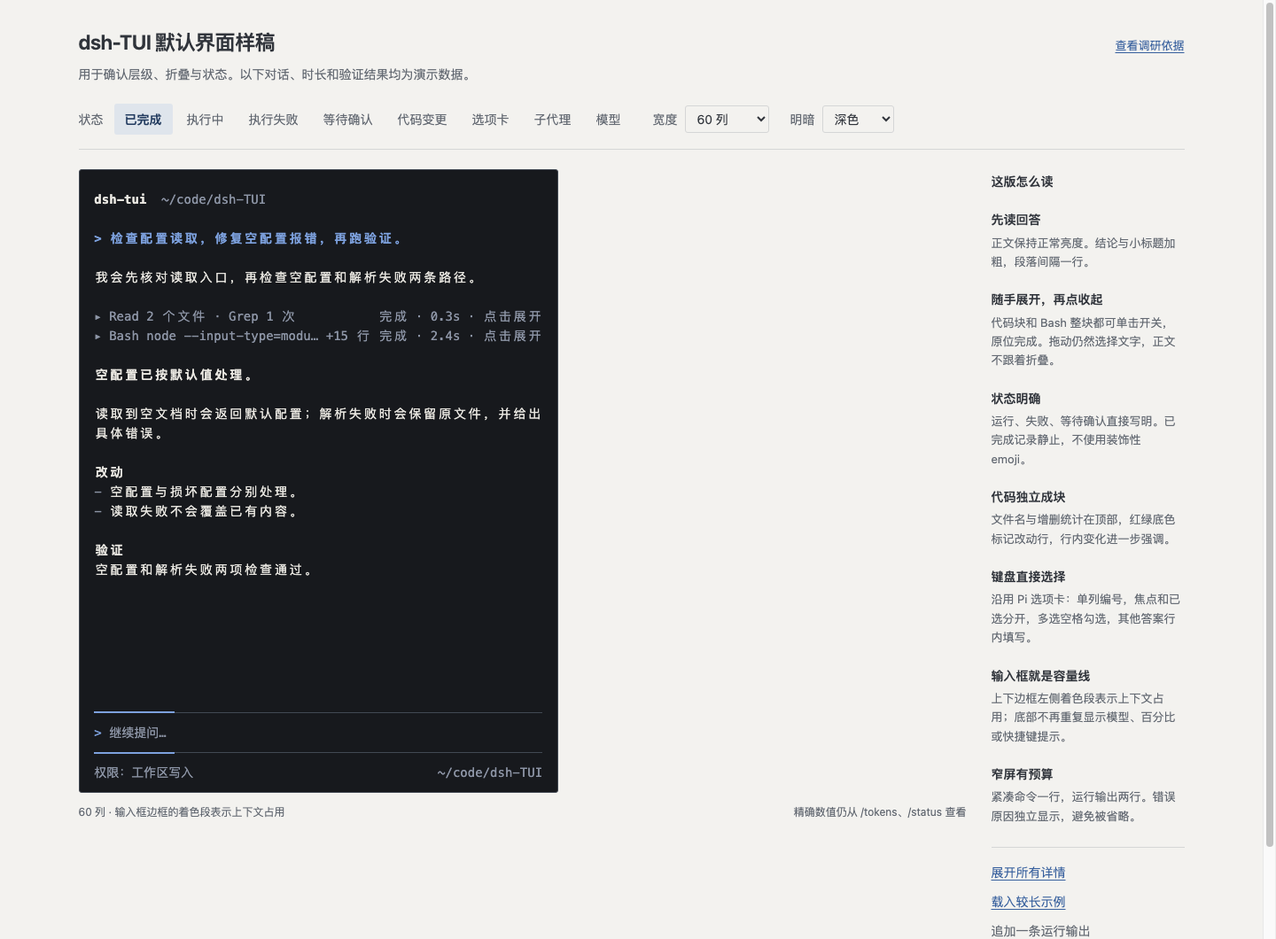
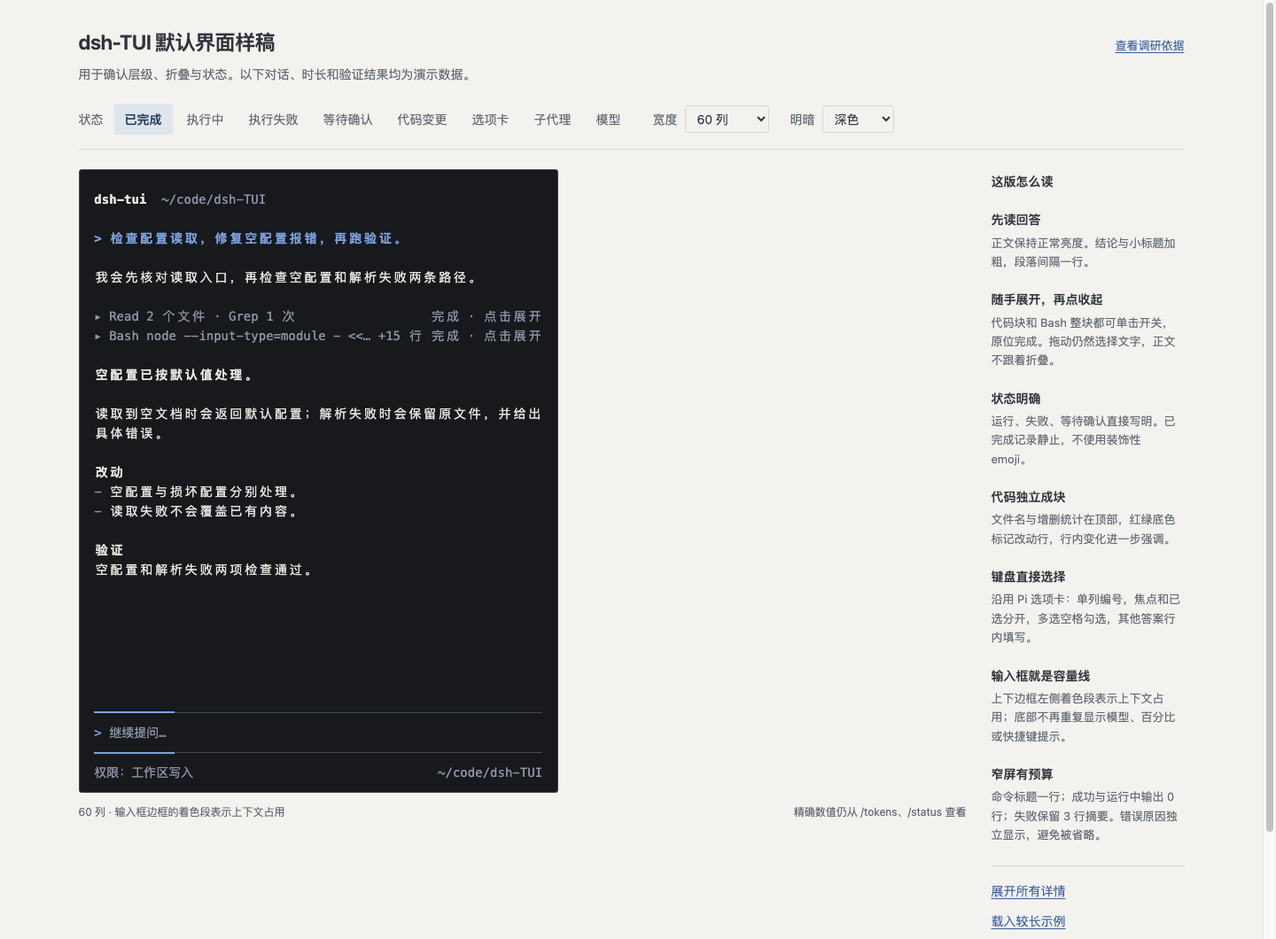
docs: 按轻审修订过程显示 spec 与交互稿
- 修正 Generic 折叠 3 行、已有提示、Bash 基线等事实错误
- 补组内转失败断组、验收缺口、流式思考机制与章节顺序
- 交互稿去掉完成态用时、补组展开结果与失败 3 行输出
- 补 ADR 代价与 Claude Code 归档依据

Changed region(s): [[0.7812, 0.8406, 0.9375, 1.0], [0.25, 0.3113, 0.375, 0.3736]]

diff --git a/docs/design/2026-10-17-dsh-tui-ux-research/preview/index.html b/docs/design/2026-10-17-dsh-tui-ux-research/preview/index.html
@@ -77,6 +77,8 @@
     .live-line { white-space:nowrap; overflow:hidden; text-overflow:ellipsis; }
     .thinking-live { margin:0 0 var(--line); color:var(--muted); }
     .thinking-body { padding-left:2ch; }
+    .group-result { padding-left:2ch; color:var(--muted); }
+    .failure-tail { margin-left:2ch; color:var(--muted); }
     .error-line { margin-left:2ch; color:var(--error); }
     .answer { margin-top:var(--line); }
     .answer p { margin:0 0 var(--line); }
@@ -349,7 +351,7 @@
         <dt>代码独立成块</dt><dd>文件名与增删统计在顶部，红绿底色标记改动行，行内变化进一步强调。</dd>
         <dt>键盘直接选择</dt><dd>沿用 Pi 选项卡：单列编号，焦点和已选分开，多选空格勾选，其他答案行内填写。</dd>
         <dt>输入框就是容量线</dt><dd>上下边框左侧着色段表示上下文占用；底部不再重复显示模型、百分比或快捷键提示。</dd>
-        <dt>窄屏有预算</dt><dd>紧凑命令一行，运行输出两行。错误原因独立显示，避免被省略。</dd>
+        <dt>窄屏有预算</dt><dd>命令标题一行；成功与运行中输出 0 行；失败保留 3 行摘要。错误原因独立显示，避免被省略。</dd>
       </dl>
       <div class="review-actions">
         <button id="toggle-all" class="plain-button">展开所有详情</button>
@@ -572,9 +574,18 @@
       : logs.join('\n')
     const commandBody = `<div class="detail-title">${cells('完整脚本 · 11 行')}</div><pre>${cells(command)}</pre><button class="copy-command" data-copy>${cells('复制脚本')}</button><div class="body-section"><div class="detail-title">${cells('输出')}</div><pre>${cells(waiting ? '等待允许，尚未执行。' : running ? logs.slice(0, 2 + state.outputIndex).join('\n') : output)}</pre></div>`
     // 过程块默认不露出结果：隐藏行数 = 未显示的命令行 + 未显示的输出行。
+    // 失败卡仍露出 3 行输出；其余状态 0 行。
     const outputRowCount = waiting ? 0 : running ? logs.slice(0, 2 + state.outputIndex).length : failed ? 3 : logs.length
-    const bashHidden = command.split('\n').length - 1 + outputRowCount
-    const groupBody = `<div class="detail-title">${cells('读取与搜索 · 3 次')}</div><div>Read src/tuiSettingsFile.ts</div><div>Read src/config-reader.ts</div><div>Grep “values ?? {}” · 2 个文件</div>`
+    const shownFailureRows = failed && !state.expanded.has('bash') ? Math.min(3, outputRowCount) : 0
+    const bashHidden = command.split('\n').length - 1 + outputRowCount - shownFailureRows
+    const groupBody = `<div class="detail-title">${cells('读取与搜索 · 3 次')}</div>
+      <div>Read src/tuiSettingsFile.ts</div><pre class="group-result">${cells('export function readValues(raw) { … }')}</pre>
+      <div>Read src/config-reader.ts</div><pre class="group-result">${cells('export function readValues(raw) { … }')}</pre>
+      <div>Grep “values ?? {}” · 2 个文件</div><pre class="group-result">${cells('src/tuiSettingsFile.ts:42: return doc?.values ?? {}')}</pre>`
+    const failureBlock = failed ? `<div class="failure-tail" data-key="failure">
+      ${!state.expanded.has('bash') ? `<pre>${cells(output.split('\n').slice(0, 3).join('\n'))}</pre>` : ''}
+      <div class="error-line">${cells('退出码 1')}</div>
+    </div>` : ''
     // 思考只在流式时显示正文；完成后整行消失，不保留可点入口。
     const liveThinking = running ? `<div class="thinking-live" data-key="thinking-live">
       <div>${cells('▸ 思考 进行中… · 3s')}</div>
@@ -584,11 +595,10 @@
     transcript.innerHTML = state.scene==='subagents' ? history() + subagentPreview.mainTranscriptHtml() : history() + (state.scene==='questions' ? `<section class="turn"><div class="term-row user">${cells('> 请先确认验证方式和需要覆盖的终端场景。')}</div><p>${cells('我会按你选择的范围准备验证。')}</p></section>` : `<section class="turn" data-key="current-turn">
       <div class="term-row user" data-key="prompt">${cells('> 检查配置读取，修复空配置报错，再跑验证。')}</div>
       <p class="narration" data-key="narration">${cells('我会先核对读取入口，再检查空配置和解析失败两条路径。')}</p>
-      ${state.scene === 'edit' ? `<div class="process">${detail('group', 'Read', 'src/config-reader.ts', '完成 · 0.1s', readBody, {hint:true})}</div>${editBlock()}` : `<section class="process" aria-label="过程记录">
+      ${state.scene === 'edit' ? `<div class="process">${detail('group', 'Read', 'src/config-reader.ts', '完成', readBody, {hint:true})}</div>${editBlock()}` : `<section class="process" aria-label="过程记录">
         ${liveThinking}
-        ${detail('group', 'Read', '2 个文件 · Grep 1 次', running ? '进行中…' : '完成 · 0.3s', groupBody, {hint:true})}
-        <div class="tool-block" data-card="bash">${detail('bash', 'Bash', command.split('\n')[0], waiting ? '等待确认' : running ? '运行中 · 8s' : failed ? '失败 · 1.2s' : '完成 · 2.4s', commandBody, {error:failed,hiddenLines:bashHidden,hint:true})}
-        ${failed ? `<div class="error-line" data-key="failure">${cells('失败：测试数据文件不存在（退出码 1）。')}</div>` : ''}</div>
+        ${detail('group', 'Read', '2 个文件 · Grep 1 次', running ? '等待结果' : '完成', groupBody, {hint:true})}
+        <div class="tool-block" data-card="bash">${detail('bash', 'Bash', command.split('\n')[0], waiting ? '等待确认' : running ? '等待结果' : failed ? '失败' : '完成', commandBody, {error:failed,hiddenLines:bashHidden,hint:true})}${failureBlock}</div>
       </section>`}
       ${answer()}
     </section>`)

diff --git a/docs/design/2026-10-17-dsh-tui-ux-research/preview/verify-preview.py b/docs/design/2026-10-17-dsh-tui-ux-research/preview/verify-preview.py
@@ -130,6 +130,8 @@ with tempfile.TemporaryDirectory(prefix='dsh-ui-browser-') as browser_dir:
             check('clicking Bash script body collapses the whole card', devtools.js('!document.querySelector("[data-detail=bash]").open'))
             devtools.click('[data-detail="group"] summary')
             check('clicking a grouped process row expands its calls', devtools.js('document.querySelector("[data-detail=group]").open'))
+            check('group expansion shows every call result', devtools.js('document.querySelector("[data-detail=group] .detail").textContent.includes("export function readValues") && document.querySelector("[data-detail=group] .detail").textContent.includes("src/tuiSettingsFile.ts:42")'))
+            check('group row has no fabricated duration', devtools.js('!/\\d+(\\.\\d+)?s/.test(document.querySelector("[data-detail=group] .summary-meta").textContent)'))
             devtools.click('[data-detail="group"] summary')
             check('clicking the grouped row again collapses it', devtools.js('!document.querySelector("[data-detail=group]").open'))
             devtools.click('[data-detail="bash"] summary')
@@ -173,6 +175,7 @@ with tempfile.TemporaryDirectory(prefix='dsh-ui-browser-') as browser_dir:
 
             devtools.click('[data-scene="failed"]')
             check('failure visible with details collapsed', devtools.js('document.querySelectorAll("details[open]").length===0 && document.querySelector("[data-key=failure]").textContent.includes("退出码 1")'))
+            check('failure keeps three output rows plus exit status', devtools.js('document.querySelector(".failure-tail pre").textContent.split("\\n").length===3 && document.querySelector(".failure-tail .error-line").textContent.includes("退出码 1")'))
             devtools.capture('failed-100-dark.png')
             devtools.click('[data-scene="approval"]')
             check('approval includes full command before any decision', devtools.js('document.querySelector(".approval-command").textContent.split("\\n").length===11'))
@@ -181,6 +184,9 @@ with tempfile.TemporaryDirectory(prefix='dsh-ui-browser-') as browser_dir:
             check('refusal is explicit and does not run a command', devtools.js('document.querySelector(".approval-result").textContent.includes("命令未执行")'))
 
             devtools.click('[data-scene="done"]')
+            check('completed thinking row is gone', devtools.js('!document.querySelector("[data-detail=thinking]") && !document.querySelector(".thinking-live")'))
+            check('done tool rows show no fabricated duration', devtools.js('!/\\d+(\\.\\d+)?s/.test(document.querySelector("[data-detail=bash] .summary-meta").textContent)'))
+            check('side copy matches the new output budget', devtools.js('document.body.textContent.includes("成功与运行中输出 0 行")'))
             devtools.capture('completed-100-dark.png')
             devtools.js('document.querySelector("#width").value="60";document.querySelector("#width").dispatchEvent(new Event("change"))')
             devtools.settle()

diff --git a/docs/specs/2026-10-28-nano-process-display/README.md b/docs/specs/2026-10-28-nano-process-display/README.md
@@ -8,7 +8,7 @@
 - ADR 关系：新增 [`ADR-20261028-nano-process-display`](../../decisions/2026-10-28-nano-process-display.md)；与间距 ADR 正交，不取代。
 - 下游：无。
 - 合入前提：Rust 测试全绿；交互稿 `verify-preview.py` 全绿；100 / 60 列、深浅主题的终端证据齐全。
-- 替代关系：替代 S03 与 `2026-10-22-nano-visual-v1` 中与本文冲突的默认显示口径；旧 spec 保留为历史，不重写冻结正文。
+- 替代关系：替代 S03 与 `2026-10-22-nano-visual-v1` 中与本文冲突的默认显示口径；同时替代 `2026-10-25-nano-visual-interaction-alignment` 中「思考行 `▸ 思考 已完成` 保留并回归」一条（该 spec 第 2 节对账表）。旧 spec 保留为历史，不重写冻结正文。
 
 ## 1. 目标与边界
 
@@ -25,7 +25,7 @@
 
 - 不新增全局展开 / 收起或任何快捷键；展开入口仍只有原位点击。
 - 不改写工具结果、模型上下文、会话记录或协议字段。
-- 不改 File / Edit 差异块的 8 行预算。
+- 不改 File / Edit 差异块的 8 行预算，也不改它们已有的「点击展开 / 已展开」提示。
 - 不改审批、问卷、子代理 dock 与子代理导航。
 - 不新增每工具计时字段；样稿里的用时是演示数据。
 
@@ -37,10 +37,9 @@
 |---|---|---|
 | 思考（已完成） | `render_thinking` 画一行 `▸ 思考 已完成` + 用时，正文默认收起（`crates/nano-transcript/src/render.rs:639`） | 提交后整行移除，不保留入口 |
 | 思考（流式） | `render_preview` 只画 `▸ 思考 进行中…` / `已结束` + 用时，不显示正文（`render.rs:1232`） | 显示正文，muted、缩进 2ch |
-| Read / Grep / Glob / List | 每次调用一个 `EntryKind::Tool`，各一张卡；`ToolDisplay::Generic` 折叠态露出最多 2 行结果（`render.rs` 的 `ToolDisplay::Generic` 分支） | 连续调用合并成一行；成功结果 0 行 |
-| Bash | 标题 1 行 + 尾部 2 行输出；失败 3 行（`COMMAND_BUDGET` / `OUTPUT_BUDGET` / `FAILURE_BUDGET`） | 成功与运行中输出 0 行；失败保持 3 行 |
-| 通用工具（失败） | 折叠态最多 3 行结果（`FAILURE_BUDGET.max(OUTPUT_BUDGET)`） | 保持 |
-| 展开提示 | 只有 `▸` 与 `+N 行`，没有文字提示 | 右侧固定「点击展开 / 点击收起」 |
+| Read / Grep / Glob / List | 每次调用一个 `EntryKind::Tool`，各一张卡；`ToolDisplay::Generic` 折叠态最多 3 行结果（`FAILURE_BUDGET.max(OUTPUT_BUDGET)`，不区分成功 / 失败） | 连续调用合并成一行；成功结果 0 行，失败保持 3 行 |
+| Bash | 标题 1 行 + 折叠态命令首行 1 行；成功尾部 2 行输出 / 运行中 0 行 / 失败 3 行（`COMMAND_BUDGET` / `OUTPUT_BUDGET` / `FAILURE_BUDGET`） | 成功输出 2 → 0 行；运行中保持 0；失败保持 3 |
+| 展开提示 | Bash / 通用工具行只有 `▸` 与 `+N 行`；File / Edit 与 context 行已有「· 点击展开」「· 已展开」内联提示 | 组行 / Bash / 通用工具行改为右侧「· 点击展开 / · 点击收起」；File / Edit / context 不动 |
 | 展开入口 | `HitKind::Toggle` 鼠标原位点击（`crates/nano-app/src/app.rs:5938`）；无键盘全展开 | 保持；不新增 |
 | 失败 | `FAILURE_BUDGET` 注释「Failures are never hidden」 | 保持 |
 | File / Edit | 差异 8 个可视行；整块点击开关 | 保持 |
@@ -53,25 +52,26 @@
 - **组内工具**：官方名为 Read、Grep、Glob、List 的调用（大小写不敏感）。其他工具不参与。
 - **分组边界**：只合并 transcript 中相邻的组内调用。任何其他 entry（Bash、Edit、Write、AskUserQuestion、用户消息、notice、context、助手正文、审批记录等）都会打断分组。
 - **失败 / 中断 / 未知不并入组**：这类调用自己按现有失败卡渲染，并在其前后断开分组。失败摘要继续可见。
+- **入组后转失败**：如果 pending 调用在后续渲染中变成失败 / 中断 / 未知，就在该调用处断组；它自己成为失败卡，它前面的调用仍成一组，它后面的调用另起一组。组级状态因此不会出现失败 / 中断 / 未知。
 - **组行内容**：
   - 单次调用：`Read <path>` / `Grep "<pattern>"` / `Glob "<pattern>"` / `List <path>`；目标取不到时退回官方名。
   - 两次及以上：按 `Read → Grep → Glob → List` 顺序计数，用 ` · ` 连接，例如 `Read 3 个文件 · Grep 2 次 · Glob 1 次 · List 1 个目录`。
-- **右侧**：状态词（`完成` / `进行中…` / `失败` / `中断` / `未知`）+ 可展开时 ` · 点击展开`；展开后写 ` · 点击收起`。不显示用时。
+- **右侧**：只显示现有状态标签中的 `等待结果`（组内仍有 pending）或 `完成`（全部成功），可展开时追加 ` · 点击展开`；展开后写 ` · 点击收起`。不显示用时。
 - **展开体**：按调用顺序逐条列出目标行和该调用的结果正文；正文 muted、缩进 2ch，单条最多 `MAX_BLOCK_ROWS`。没有结果时不多造空行。
 - **组身份**：取组内第一条调用的 identity；后续调用加入同组时保持不动，展开状态不因新调用到达而丢失。
-- **状态**：组内仍有 pending 调用时显示 `进行中…`；全部结束显示最终状态。
 
 ### 3.2 结果行预算
 
-- Bash 成功或运行中：输出默认 0 行；命令标题保持 1 行。
+- Bash 成功：输出由 2 行改为 0 行；运行中维持 0 行；命令标题与折叠态命令首行保持 1 行。
 - Bash pending 的「等待结果；没有来源时不显示假输出」事实提示保留；它不是结果输出。
-- 通用工具成功：结果默认 0 行。
-- Bash 失败 / 中断：保持 3 行输出 + 退出状态；通用工具失败保持 3 行。
+- 通用工具成功：结果由 3 行改为 0 行；失败 / 中断 / 未知保持 3 行。
+- Bash 失败 / 中断：保持 3 行输出 + 退出状态。
 - `+N 行` 继续按实际未显示的视觉行计数，覆盖命令与输出。
 - File / Edit、审批、问卷、子代理的现有预算不变。
 
 ### 3.3 可发现性提示
 
+- **适用对象**：组行、Bash 行、通用工具行。File / Edit 与 context 行沿用各自已有的「点击展开 / 已展开」提示，本次不改。
 - 只有存在可展开内容时，右侧才追加 ` · 点击展开`；展开后同一位置变成 ` · 点击收起`。
 - 60 列下状态词与提示都必须完整可见；左侧标题可截断为省略号。
 - 更窄宽度允许省略提示，但不得省略状态词。
@@ -116,28 +116,43 @@
 
 - [ ] 连续 Read / Grep / Glob / List 渲染为一行；计数、顺序正确；单次调用显示目标。
 - [ ] 任何非组内 entry 或失败 / 中断 / 未知调用都会断开分组；失败卡摘要继续可见。
+- [ ] 组内 pending 调用后来失败时按 §3.1 在该调用处断组，前后调用各自成组。
+- [ ] 组身份稳定：新调用加入同组时展开状态不丢失。
+- [ ] 组状态在 `等待结果` 与 `完成` 之间正确切换。
 - [ ] 组展开后按顺序显示每次调用的目标与结果；再次点击收起；拖选不触发展开。
-- [ ] Bash 成功与运行中默认 0 行输出；失败保持 3 行 + 退出状态；`+N 行` 按视觉行。
-- [ ] 通用工具成功默认 0 行结果。
-- [ ] 每个可展开过程行右侧显示「点击展开 / 点击收起」；60 列下状态与提示完整可见。
-- [ ] 流式思考显示正文；提交后无思考行；会话恢复无思考行。
-- [ ] File / Edit、审批、问卷、子代理行为无回归。
+- [ ] Bash 成功输出 2 → 0 行；运行中保持 0 行；失败保持 3 行 + 退出状态；pending 的事实提示保留；`+N 行` 按视觉行。
+- [ ] 通用工具成功结果 3 → 0 行；失败 / 中断 / 未知保持 3 行。
+- [ ] 组行 / Bash / 通用工具行右侧显示「点击展开 / 点击收起」；60 列下状态与提示完整可见；更窄宽度可省略提示但保留状态词。
+- [ ] 流式思考显示正文；提交后无思考行；会话恢复无思考行；空思考不渲染。
+- [ ] File / Edit、context、审批、问卷、子代理行为无回归。
 - [ ] 现有 Rust 测试全绿；新增测试覆盖上述边界。
 - [ ] 交互稿 `verify-preview.py` 全绿；100 / 60 列、深色 / 浅色终端证据齐全。
 - [ ] 没有新增全局展开 / 收起快捷键。
 
-## 7. 机制清单
+## 7. 风险与未决
+
+- **思考不可回看**：已完成思考没有入口，是本次明确接受的代价；若后续要求回看，需要重开 ADR。
+- **分组可能隐藏单次状态细节**：组行只显示整体状态，单次失败会拆出独立卡；展开体列出每次调用。
+- **提示占宽**：60 列已验证；更窄终端按 §3.3 省略提示。
+- **长会话滚动**：没有全局展开，长历史仍依赖滚动与原位点击；本次不改变滚动。
+
+## 8. 完成标准
+
+约定功能实现；Rust 单元测试、现有测试套件与交互稿浏览器验证全部通过；无未处理阻断；100 / 60 列、深浅主题终端证据齐全。观察式收尾不纳入本单。
+
+## 9. 机制清单
 
 | 机制 | 解决什么；不做会怎样 | 代价 |
 |---|---|---|
 | M1 过程分组 | 连续读取 / 搜索只占一行，长任务不再被过程刷屏；不做则每读一个文件一张卡 | 展开才看到每次调用；单次调用也不再单独起卡 |
 | M2 思考完成后消失 | 屏幕只留结论；不做则完成态仍占一行 | 没有全局入口时正文不可回看 |
 | M3 成功结果默认 0 行 | 过程卡只留标题和状态；不做则默认屏幕被输出占满 | 想扫一眼结果要多一次点击；失败仍不隐藏 |
-| M4 点击提示 | 让展开入口可发现；不做则用户不知道能点开 | 每行右侧多几个字 |
+| M4 过程行点击提示 | 组行 / Bash / 通用工具行的展开入口可发现；不做则用户不知道能点开 | 每行右侧多几个字；File / Edit / context 已有提示，不重复改 |
+| M5 流式思考正文可见 | 生成中能看到模型在想什么；不做则只有一行状态，过程不可读 | 生成期间占用屏幕；提交后随整行一起消失 |
 
 本 spec 不新增架构层或跨任务抽象；`Unit::Group` 是现有 display unit 的内部扩展。
 
-## 8. 自定细节
+## 10. 自定细节
 
 以下是 spec 未由用户逐项指定、由方案期确定的默认值：
 
@@ -145,24 +160,30 @@
 - 单次调用显示目标；两次及以上显示计数，不显示“最近目标”。
 - 计数文案：`N 个文件` / `N 次` / `N 个目录`；顺序固定 Read → Grep → Glob → List。
 - 组行与卡片右侧不显示用时；现有记录没有每工具计时。
-- 失败 / 中断 / 未知调用不并入组，按现有失败卡显示。
+- 失败 / 中断 / 未知调用不并入组；入组后转失败按 §3.1 断组。
 - 组身份取第一条调用的 identity，保证展开状态稳定。
 - 展开体包含每条调用的结果正文；没有结果时不额外造行。
 - pending 的事实提示保留；它不算结果输出。
 - 60 列必须同时看到状态和提示；更窄允许省略提示。
 - 交互稿里的用时是演示数据，不作为验收依据。
 
-## 9. 风险与未决
+## 11. 审核修订记录
 
-- **思考不可回看**：已完成思考没有入口，是本次明确接受的代价；若后续要求回看，需要重开 ADR。
-- **分组可能隐藏单次状态细节**：组行只显示整体状态，单次失败会拆出独立卡；展开体列出每次调用。
-- **提示占宽**：60 列已验证；更窄终端按 §3.3 省略提示。
-- **长会话滚动**：没有全局展开，长历史仍依赖滚动与原位点击；本次不改变滚动。
-
-## 10. 审核修订记录
-
-（待填）
-
-## 11. 完成标准
-
-约定功能实现；Rust 单元测试、现有测试套件与交互稿浏览器验证全部通过；无未处理阻断；100 / 60 列、深浅主题终端证据齐全。观察式收尾不纳入本单。
+| # | 严重度 | 发现 | 处置 |
+|---|---|---|---|
+| 1 | 高 | Generic 折叠态是 3 行，不是 2 行；§2 与 §3.2 的 delta 写错 | 已改：§2 写明 3 行且不区分状态；§3.2 改为成功 3 → 0 |
+| 2 | 高 | 「没有文字提示」不成立；File / Edit 与 context 已有内联提示 | 已改：§2 拆分两类现状；§3.3 与 M4 收窄到组行 / Bash / 通用工具行 |
+| 3 | 高 | 交互稿说明仍写「供拍板 / 尚未进入正式规格」 | 已改：改为已采纳，指向 ADR 与 spec |
+| 4 | 高 | 交互稿侧栏仍写「运行输出两行」 | 已改：改为状态 / 0 行 / 失败 3 行 |
+| 5 | 中 | 组状态词一半不可达；入组后转失败未定义 | 已改：状态只用 `等待结果` / `完成`；补入组后转失败断组规则 |
+| 6 | 中 | 验收缺组身份、状态切换、pending 提示、Generic 失败、窄宽省略、空思考 | 已改：§6 补 6 项 |
+| 7 | 中 | 机制清单漏「流式思考正文可见」 | 已改：新增 M5 |
+| 8 | 中 | 自定细节不在末尾 | 已改：重排章节，自定细节倒数第二，审核修订记录最后 |
+| 9 | 中 | 替代关系漏 `2026-10-25-nano-visual-interaction-alignment` 的思考行 | 已改：头部替代关系点名补入 |
+| 10 | 中 | 交互稿组展开体没有结果正文 | 已改：样稿每条调用补结果块 |
+| 11 | 中 | 组行 / Bash 行显示用时，与 §3.1 / §8 冲突 | 已改：样稿去掉组行与 Bash 用时，只留流式思考用时 |
+| 12 | 中 | 失败展示口径不一致：样稿一行摘要 vs spec 3 行 | 已改：样稿失败场景露出 3 行输出 + 退出状态 |
+| 13 | 中 | 「每个可展开过程行」范围超出 §1 | 已改：§3.3 与验收收窄到组行 / Bash / 通用工具行 |
+| 14 | 低 | Bash 基线不完整；运行中 0 行是空改动 | 已改：§2 / §3.2 写明成功 2 → 0、运行中保持 0、失败 3 |
+| 15 | 低 | ADR 代价漏「提示占宽」与流式思考占屏 | 已改：ADR 补两条代价 |
+| 16 | 低 | ADR 的 Claude Code 依据没有可核位置 | 已改：补归档路径、文件与行为位置 |

diff --git a/docs/decisions/2026-10-28-nano-process-display.md b/docs/decisions/2026-10-28-nano-process-display.md
@@ -20,7 +20,10 @@ Nano 的默认屏幕只留「结论 + 一行过程摘要 + 可点开的入口」
 
 ## 依据
 
-- 2026-10-28 对照 Claude Code 2.1.88 源码：默认屏幕不渲染已完成思考；连续读取 / 搜索折成一行；工具结果由工具自己决定，默认只留标题与状态。
+- 2026-10-28 对照本机归档的 Claude Code 2.1.88 源码（`/Users/sunchongsheng/Downloads/归档/06-软件与安装包/ClaudeCode/`）：
+  - `src/components/Message.tsx` 的 `thinking` 分支在非 transcript、非 verbose 时直接返回 null；`src/components/messages/AssistantThinkingMessage.tsx` 只在流式渲染时被调用。
+  - `src/utils/collapseReadSearch.ts` 与 `src/components/messages/CollapsedReadSearchContent.tsx` 把连续读取 / 搜索折成一行计数，默认不显示结果正文。
+  - `src/components/messages/AssistantToolUseMessage.tsx` 与各工具的 `renderToolResultMessage` 决定结果展示；默认只留一行工具标题与状态。
 - 用户先看交互稿（100 / 60 列、深浅主题、完成 / 执行中 / 失败场景），确认后明确「完全采纳」。
 - 交互稿浏览器验证 131 项全绿，覆盖分组展开、默认不露结果、流式思考、60 列不溢出。
 
@@ -35,6 +38,8 @@ Nano 的默认屏幕只留「结论 + 一行过程摘要 + 可点开的入口」
 - 完成后思考正文不可回看；没有全局入口，也没有点击入口。
 - 想确认工具结果需要多一次点击。
 - 组行只显示整体状态，单次调用的细节要展开才看得到。
+- 「点击展开 / 点击收起」占用行尾宽度；60 列可完整显示，更窄宽度会省略提示。
+- 流式思考正文在生成期间占用屏幕。
 
 ## 允许重开的条件
 
